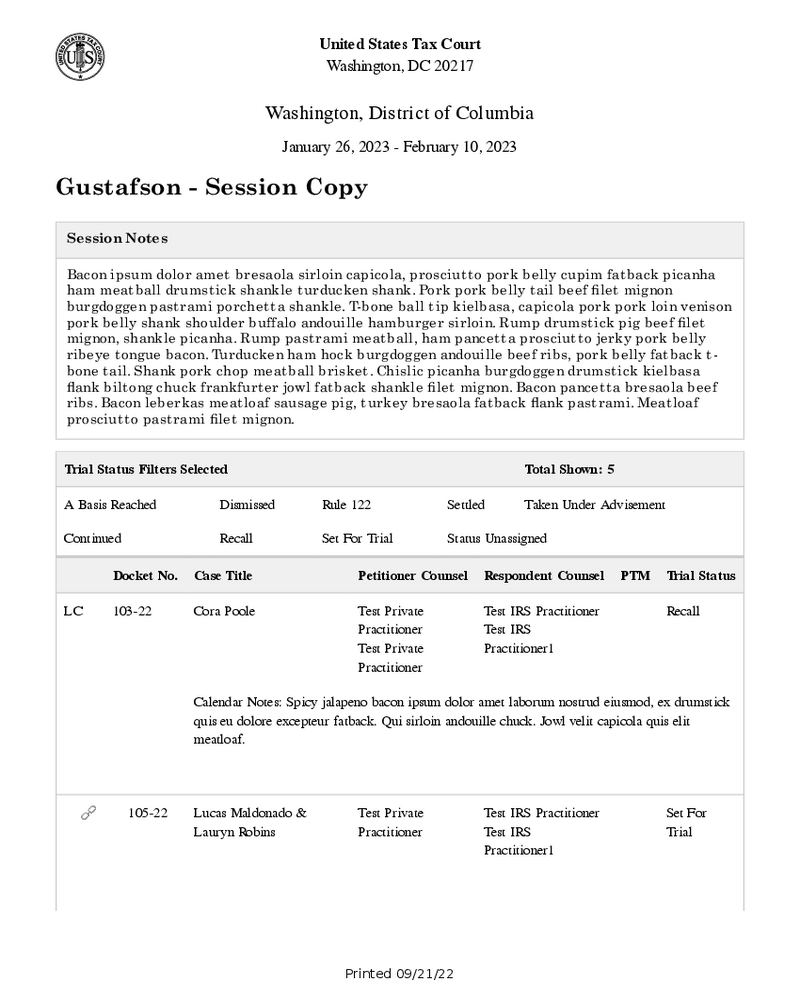
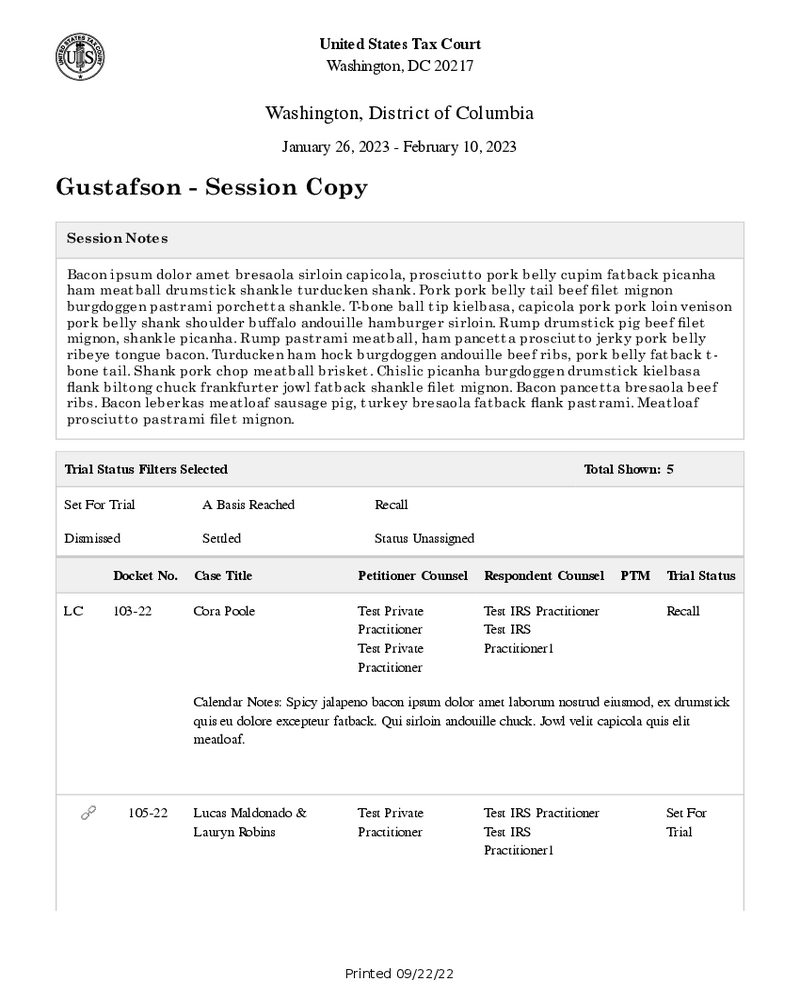
9511: Update images because of filter change and fix image verify logging

Changed region(s): [[0.4062, 0.465, 0.8438, 0.558], [0.25, 0.496, 0.375, 0.558], [0.0938, 0.496, 0.1875, 0.558]]

diff --git a/image-compare-pdfs.js b/image-compare-pdfs.js
@@ -102,7 +102,9 @@ const pdfs = [
       const totalPixels = height * width;
       const percentDifference = (pixelDifference / totalPixels) * 100;
 
-      console.log(`${pdf.fileName}: ${percentDifference}%`);
+      console.log(
+        `${pdf.fileName} page ${pdf.pageNumber}: ${percentDifference}%`,
+      );
 
       fs.mkdirSync('./shared/test-output/diff', { recursive: true });
       fs.writeFileSync(
@@ -112,7 +114,7 @@ const pdfs = [
 
       if (percentDifference > 0.1) {
         console.error(
-          `${pdf} failed due to percentDifference of ${percentDifference}`,
+          `${pdf.fileName} page ${pdf.pageNumber} failed due to percentDifference of ${percentDifference}`,
         );
         fail = true;
       }
